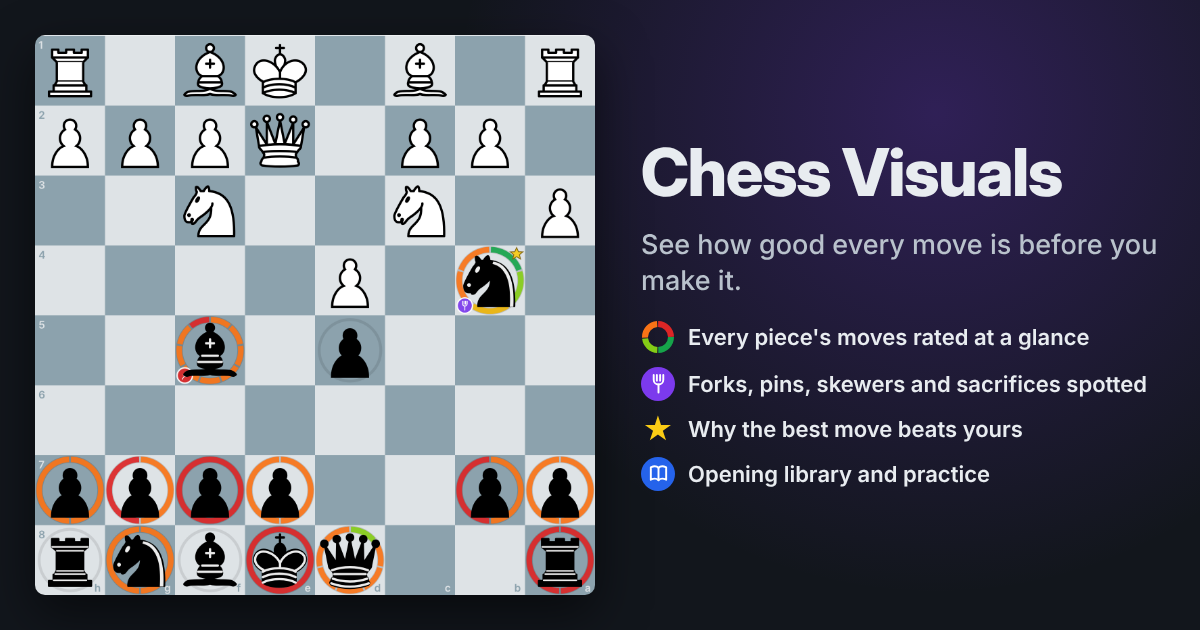
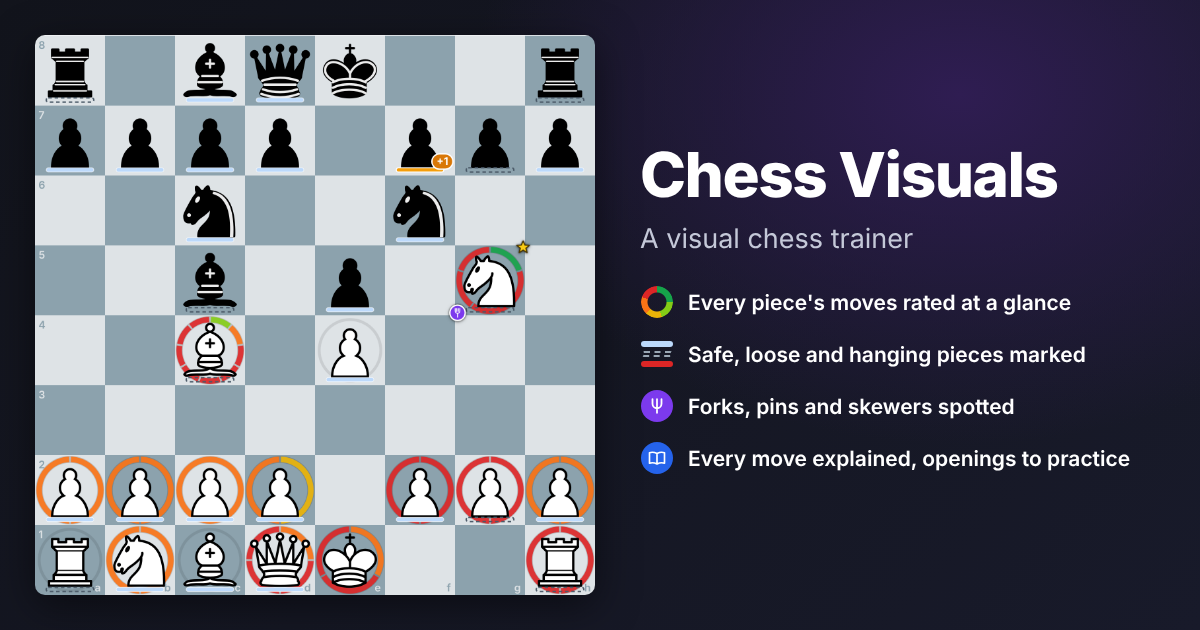
Present the site as a visual chess trainer
The page title, description, link-preview tags, tagline and README intro
now lead with it being a visual trainer and cover piece safety and
tactics, not only move ratings. New link-preview image with safety bars
and a fork badge on the board.

Claude-Session: https://claude.ai/code/session_015R6Nh4JaHPpS7gPAXcwaML

diff --git a/web/index.html b/web/index.html
@@ -3,8 +3,8 @@
 <head>
   <meta charset="utf-8">
   <meta name="viewport" content="width=device-width, initial-scale=1">
-  <title>Chess Visuals</title>
-  <meta name="description" content="Play chess with every piece showing how good its moves are, rated by an engine.">
+  <title>Chess Visuals: a visual chess trainer</title>
+  <meta name="description" content="A visual chess trainer. The board shows how good each piece's moves are, which pieces are safe or hanging, and the forks, pins and skewers in the position.">
   <link rel="icon" href="pieces/wN.svg" type="image/svg+xml">
   <link rel="canonical" href="https://robertpiazza.com/chess-visuals/">
 
@@ -26,25 +26,25 @@
   <!-- Link previews (Open Graph for most apps, Twitter card for X). -->
   <meta property="og:type" content="website">
   <meta property="og:site_name" content="Chess Visuals">
-  <meta property="og:title" content="Chess Visuals: see how good every move is">
-  <meta property="og:description" content="A chess trainer where every piece shows how good its moves are. Forks, pins, skewers and sacrifices are flagged, each move is explained, and an opening library helps you practice.">
+  <meta property="og:title" content="Chess Visuals: a visual chess trainer">
+  <meta property="og:description" content="A visual chess trainer. Rings rate every piece's moves, bars show which pieces are safe or hanging, and tactics are flagged on the board. Every move is explained, and you can practice openings or play a friend online.">
   <meta property="og:url" content="https://robertpiazza.com/chess-visuals/">
   <meta property="og:image" content="https://robertpiazza.com/chess-visuals/og-image.png">
   <meta property="og:image:type" content="image/png">
   <meta property="og:image:width" content="1200">
   <meta property="og:image:height" content="630">
-  <meta property="og:image:alt" content="A chess board with coloured rings around each piece rating its moves, next to the title Chess Visuals.">
+  <meta property="og:image:alt" content="A chess board with rated rings around the pieces, safety bars under them and a fork badge, next to the title Chess Visuals: a visual chess trainer.">
   <meta name="twitter:card" content="summary_large_image">
-  <meta name="twitter:title" content="Chess Visuals: see how good every move is">
-  <meta name="twitter:description" content="A chess trainer where every piece shows how good its moves are, with tactics flagged and every move explained.">
+  <meta name="twitter:title" content="Chess Visuals: a visual chess trainer">
+  <meta name="twitter:description" content="A visual chess trainer: move ratings, piece safety and tactics drawn right on the board, with every move explained.">
   <meta name="twitter:image" content="https://robertpiazza.com/chess-visuals/og-image.png">
-  <meta name="twitter:image:alt" content="A chess board with coloured rings around each piece rating its moves, next to the title Chess Visuals.">
+  <meta name="twitter:image:alt" content="A chess board with rated rings around the pieces, safety bars under them and a fork badge, next to the title Chess Visuals: a visual chess trainer.">
   <link rel="stylesheet" href="css/style.css">
 </head>
 <body>
   <header class="topbar">
     <h1>Chess Visuals</h1>
-    <p class="tagline">Every piece shows how good its moves are. Select one to see each move rated.</p>
+    <p class="tagline">A visual chess trainer: move ratings, piece safety and tactics drawn on the board.</p>
   </header>
 
   <main class="layout">

diff --git a/README.md b/README.md
@@ -1,6 +1,15 @@
 # Chess Visuals
 
-A browser chess trainer for standard chess. On your turn, every one of your pieces shows a ring rating its legal moves, so you can see at a glance which pieces have good options and which have only bad ones. Select a piece and each of its target squares shows how good that move is.
+A visual chess trainer that runs in the browser. It marks up the board with what you'd want to notice before moving:
+
+- **Move ratings.** On your turn, a ring around each of your pieces rates its legal moves, so you can see which pieces have good options and which have only bad ones. Select a piece and each target square shows how good that move is.
+- **Piece safety.** A bar under every piece, yours and your opponent's, shows whether it's protected, loose, about to be lost, or there for the taking.
+- **Tactics.** Forks, pins, skewers and sacrifices are flagged where they happen.
+- **Explanations.** Every move is explained in plain language, including why the best move beats yours.
+
+You can play the computer, practice openings from a built-in library, or play a friend online.
+
+**[Play it at robertpiazza.com/chess-visuals](https://robertpiazza.com/chess-visuals/)**
 
 ## What the board shows
 
@@ -152,4 +161,4 @@ Pushing to `main` runs the tests and deploys `web/` to the `gh-pages` branch (`.
 
 ## Link previews
 
-`web/index.html` carries Open Graph and Twitter card tags, so a shared link shows a title, description and `web/og-image.png` (1200×630: a board with rated rings next to the title and main features). The tags point at `https://robertpiazza.com/chess-visuals/`; change `og:url`, `og:image`, `twitter:image` and the canonical link if the site moves.
+`web/index.html` carries Open Graph and Twitter card tags, so a shared link shows a title, description and `web/og-image.png` (1200×630: a board from the app with rated rings, safety bars and a fork badge, next to the title and main features). The tags point at `https://robertpiazza.com/chess-visuals/`; change `og:url`, `og:image`, `twitter:image` and the canonical link if the site moves.
